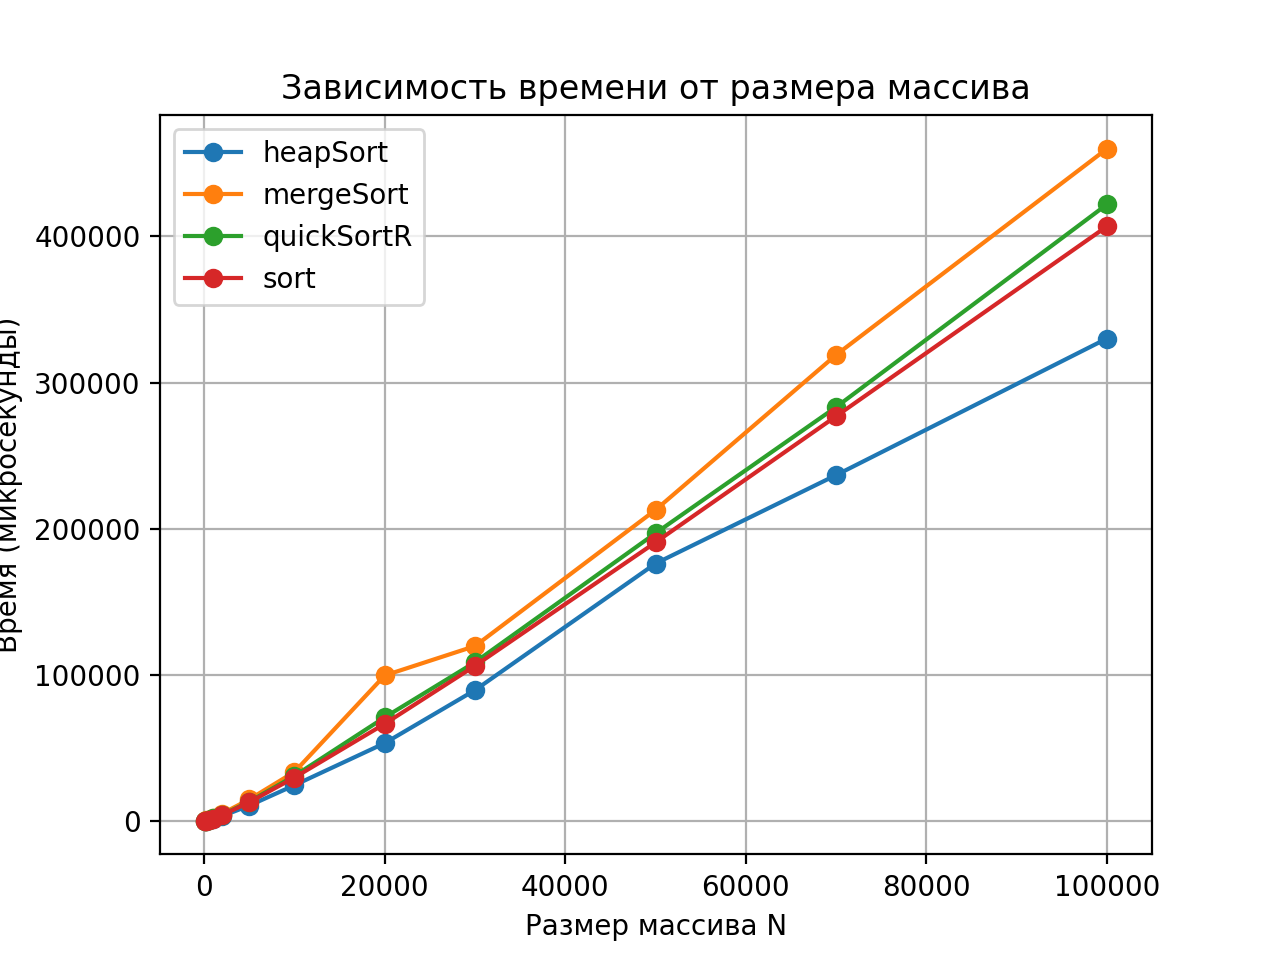
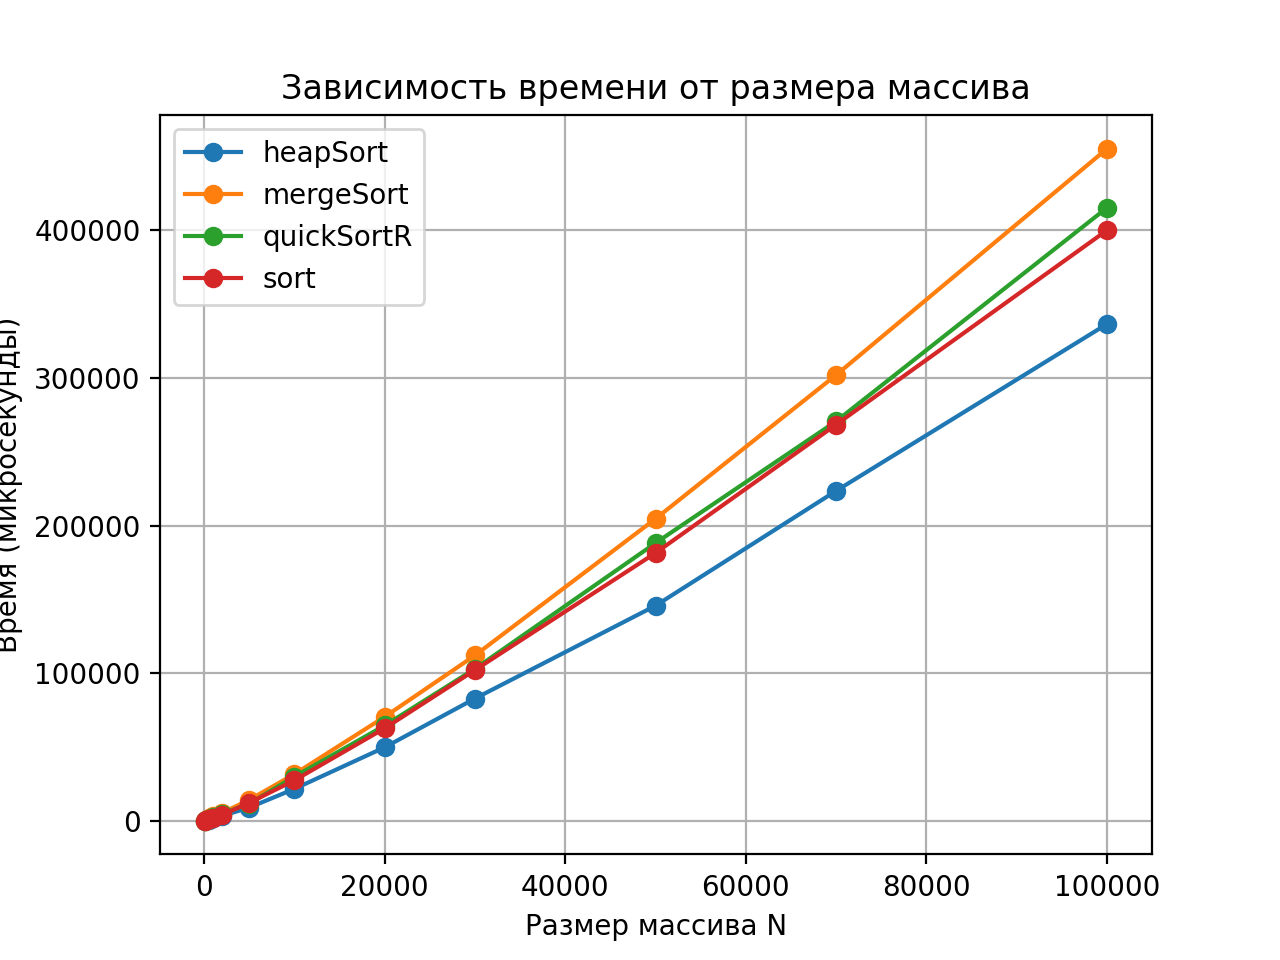
final lab_1

Changed region(s): [[0.0312, 0.1875, 0.9062, 0.8438], [0.0312, 0.2188, 0.125, 0.2812]]

diff --git a/lab_1/main.cpp b/lab_1/main.cpp
@@ -3,7 +3,6 @@
  * @brief Содержит реализацию и сравнение алгоритмов сортировки.
  */
 #include <vector>
-#include <utility>
 #include <chrono>
 #include <algorithm>
 #include "data.h"
